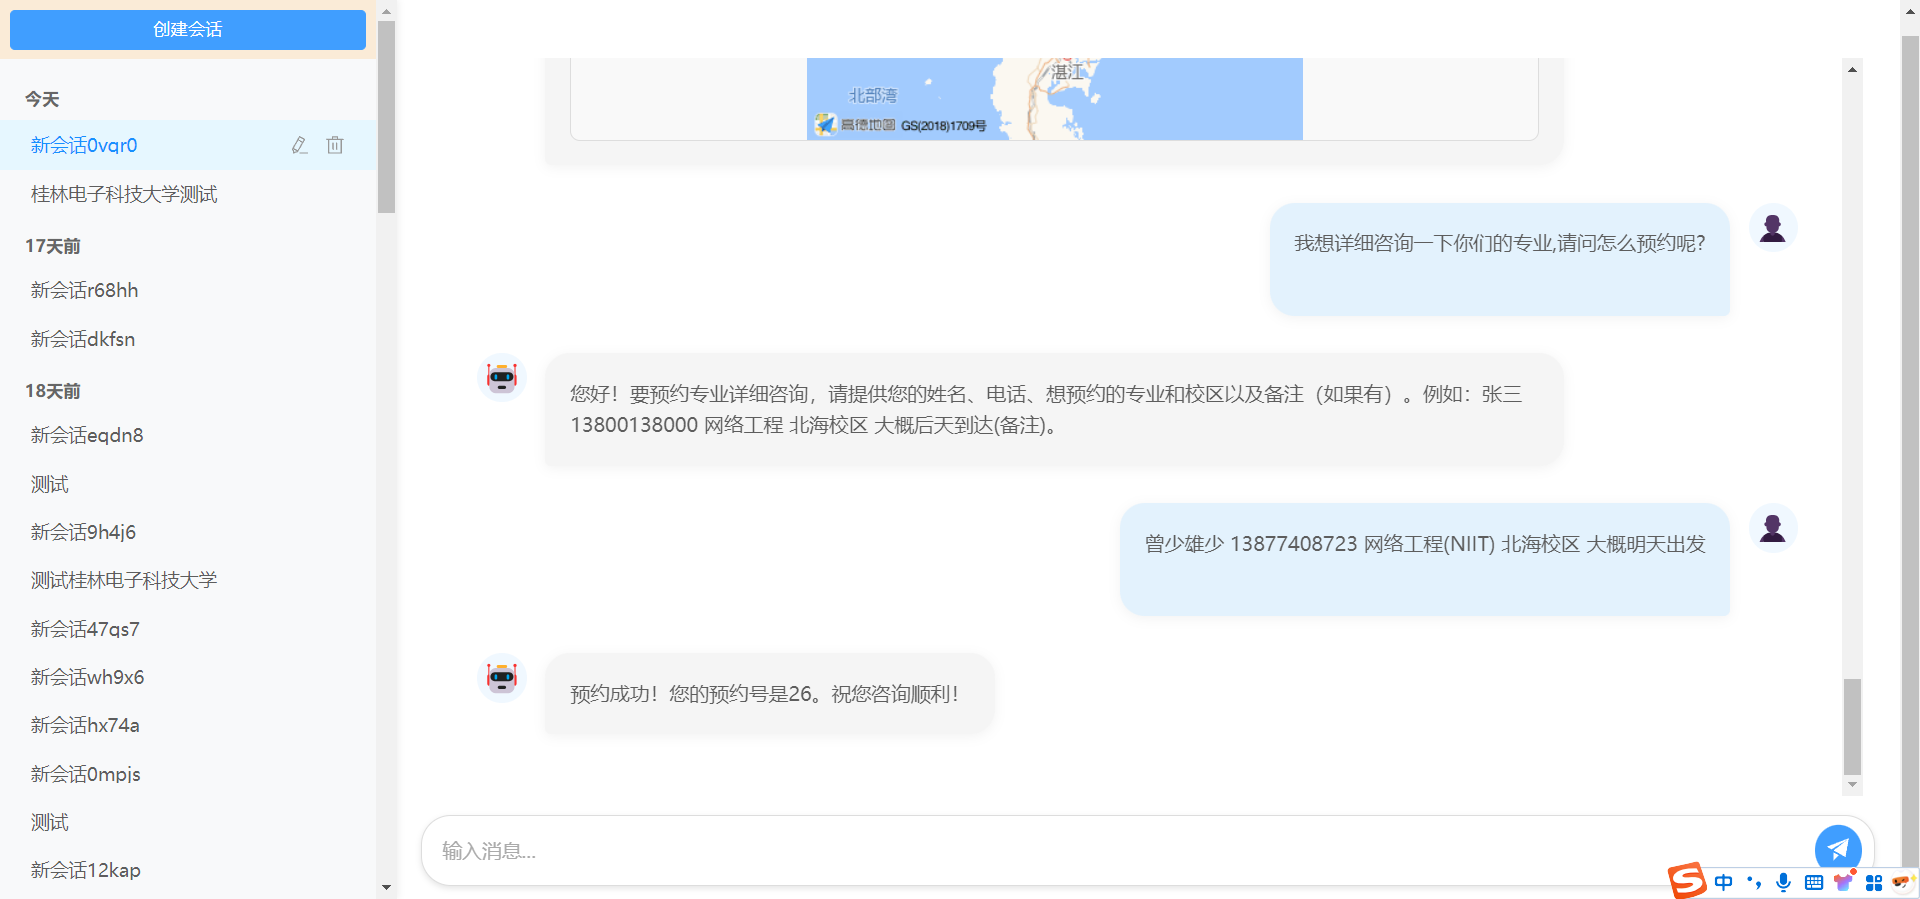
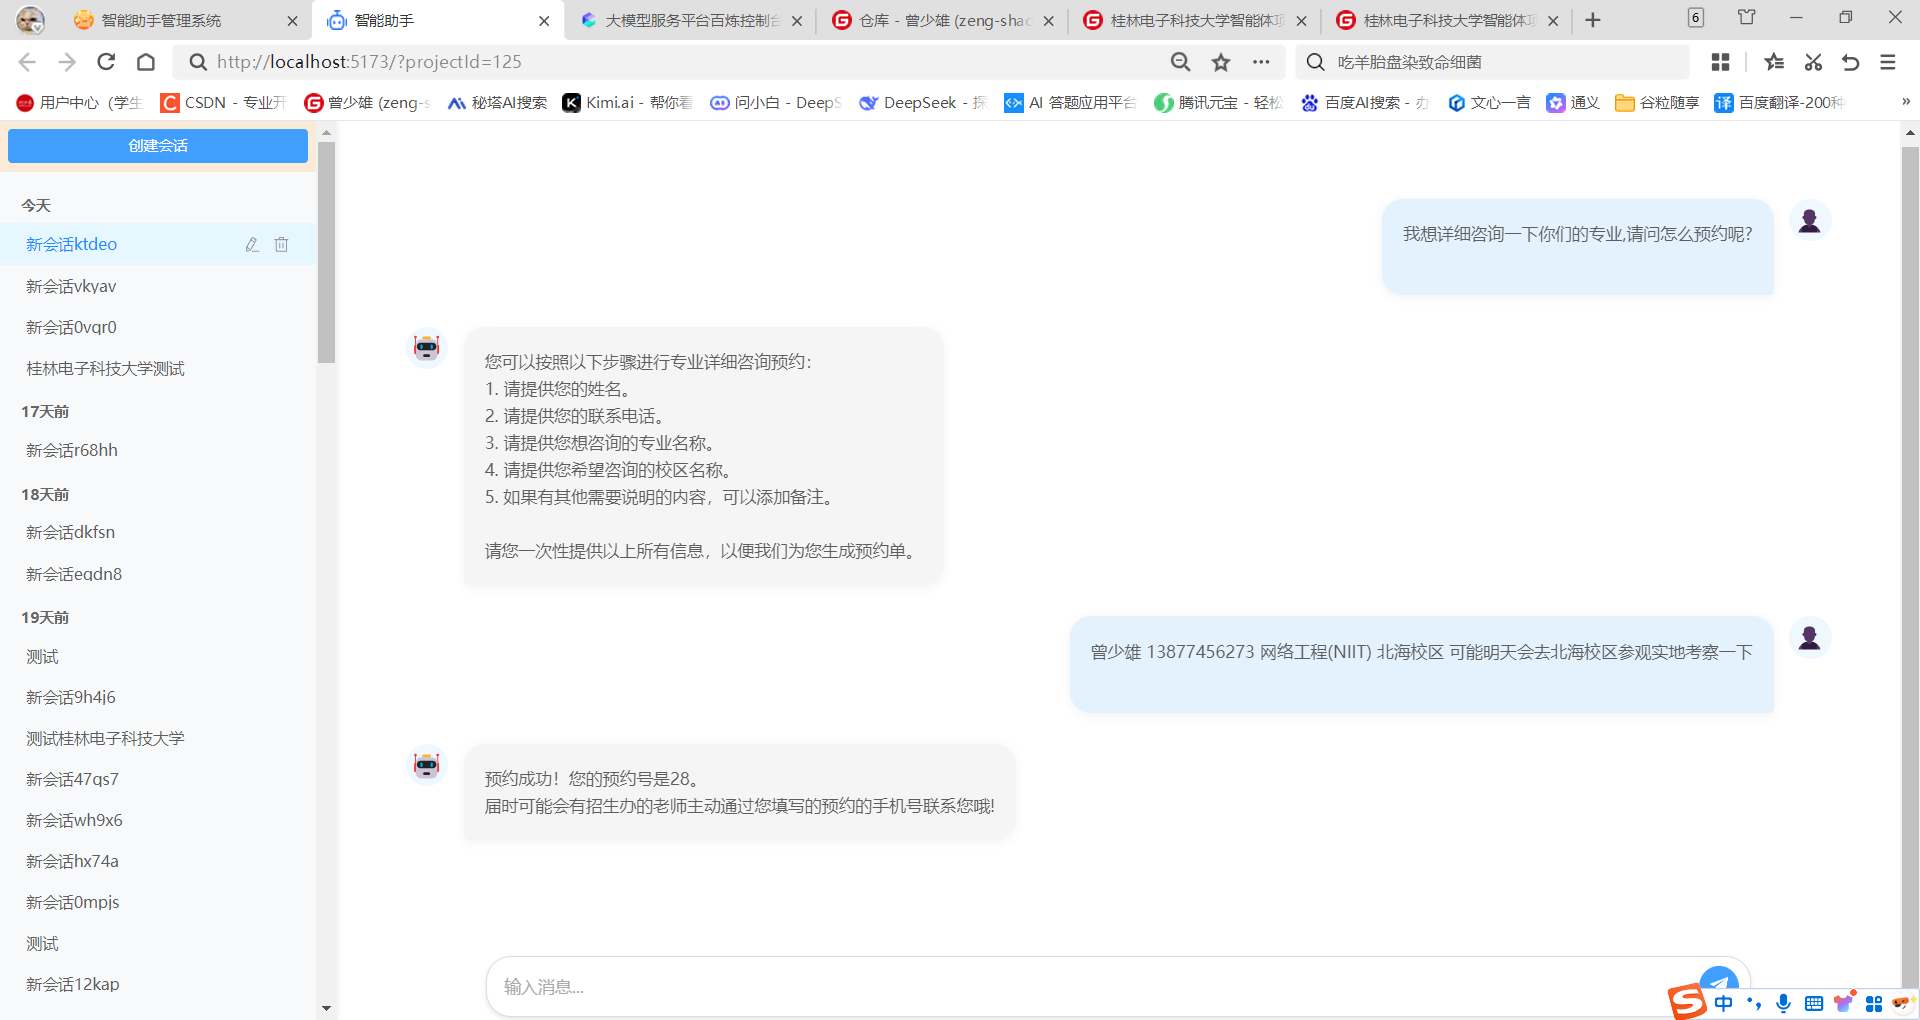
feat(ai): 优化预约成功提示信息及联系说明

diff --git a/guli-ai/src/main/java/com/atguigu/guliai/constant/SystemConstant.java b/guli-ai/src/main/java/com/atguigu/guliai/constant/SystemConstant.java
@@ -107,7 +107,8 @@ public class SystemConstant {
                 
             用户：张三 13800138000 网络工程 北海校区 大概后天到达
             你：正在为您生成预约单...
-                   预约成功！您的预约号是xxx
+                   预约成功！您的预约号是xxx。
+                   届时可能会有招生办的老师主动通过您填写的预约的手机号联系您哦!
             """;
 
     // 系统角色标识
